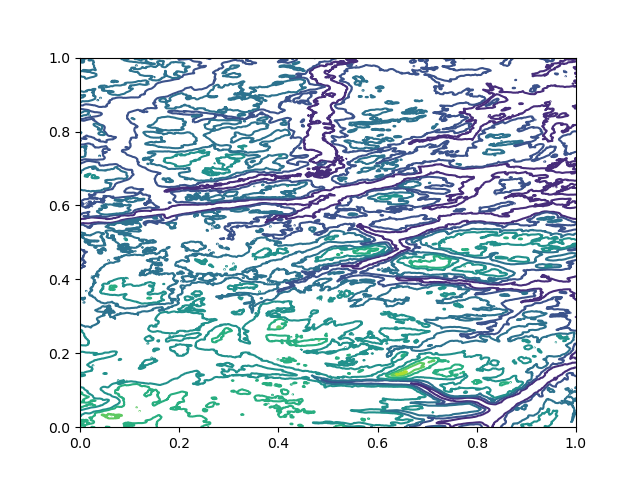
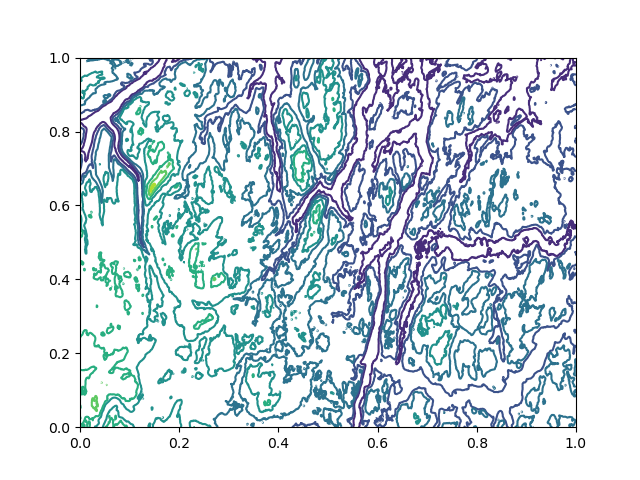
Final push
Last commit

diff --git a/Prosjekt1/Exercise4.py b/Prosjekt1/Exercise4.py
@@ -5,7 +5,7 @@ import matplotlib.pyplot as plt
 from sklearn.preprocessing import StandardScaler
 from sklearn.metrics import mean_squared_error, r2_score
 from sklearn.model_selection import train_test_split
-
+from sklearn.utils import shuffle
 
 
 x,y,z = datapoints()
@@ -52,7 +52,68 @@ def ridgeRegression(x,y,z,order,lamb):
             
     return data, error, bias, variance
 
+def RidgeRegressionkFold(x,y,z, order, kfold, lam):   
+    mse_train = np.empty((order, kfold))
+    mse_test = np.empty((order, kfold))
+    r2_train = np.empty((order, kfold))
+    r2_test = np.empty((order, kfold))         
+    
 
+    X = create_X(x,y,order)
+    z_data = np.ravel(z)
+    X_train, z_train = shuffle(X, z_data)
+        
+        
+    x_data = np.array_split(X_train, kfold)
+    z_data = np.array_split(z_train, kfold)
+        
+    
+    for i in range(0,len(x_data)):    
+        X_test = x_data[i]
+        X_train = x_data.copy()
+        X_train.pop(i)
+        X_train = np.concatenate(X_train, axis=0)
+            
+        z_test = z_data[i]
+        z_train = z_data.copy()
+        z_train.pop(i)
+        z_train = np.concatenate(z_train, axis=0)
+            
+        scaler = StandardScaler()
+        scaler.fit(X_train)
+            
+        X_train_scale = scaler.transform(X_train)
+        X_test_scale = scaler.transform(X_test)
+        
+        X_train_scale[:,0] = 1
+        X_test_scale[:,0] = 1
+        
+        z_mean_train = np.mean(z_train)
+        z_train = (z_train - z_mean_train)/np.std(z_train)
+            
+        z_mean_test = np.mean(z_test)
+        z_train = (z_train - z_mean_test)/np.std(z_test)
+            
+        coefs = ridge(X_train_scale, z_train, lam)
+            
+        z_fit = X_train_scale.dot(coefs)
+        z_pred = X_test_scale.dot(coefs)
+            
+            
+        MSE_train = mean_squared_error(z_fit, z_train)
+        MSE_test = mean_squared_error(z_pred, z_test)
+        
+        R2_train = r2_score(z_fit, z_train)
+        R2_test = r2_score(z_pred, z_test)
+
+        mse_train[i] = MSE_train
+        mse_test[i] = MSE_test
+        r2_train[i] = R2_train
+        r2_test[i] = R2_test    
+            
+    return mse_train, mse_test, r2_train, r2_test
+
+"""
 mse_train = []
 mse_test = []
 r2_train = []
@@ -61,7 +122,7 @@ error = []
 bias = []
 variance = []
 
-nlambdas = 12
+nlambdas = 25
 lambdas = np.logspace(-12, 0.5, nlambdas)
 order = 7
 polynomials = np.linspace(1,order,order)
@@ -87,14 +148,15 @@ plt.semilogy(lambdas,variance, "o", label="variance", color = "b")
 plt.semilogy(lambdas,variance, color = "b")
 plt.legend()
 plt.show()
+"""
 
+n_bootstraps = 625
 
-n_bootstraps = 275
 
 nlambdas = 15
 lam_high = 0.5
 lam_low = -12
-order = 14
+order = 5
 
 #p = [7, 8, 9, 14]
 
@@ -110,4 +172,44 @@ plt.semilogy(xaxis, bi, "o", color="g")
 plt.semilogy(xaxis, var, "o", color="b")
 plt.legend()
 plt.show()
+"""
 
+
+kfolds = 5
+
+nlambdas = 25
+lambdas = np.logspace(-12, 0.5, nlambdas)
+order = 7
+polynomials = np.linspace(1,order,order)
+
+for _ in range(nlambdas):
+    msetrain, msetest, r2train, r2test = RidgeRegressionkFold(x,y,z,order, kfolds, lambdas[_])
+    msetrain = [np.mean(msetrain[_]) for _ in range(order)]
+    msetest = [np.mean(msetest[_]) for _ in range(order)]
+    r2train = [np.mean(r2train[_]) for _ in range(order)]
+    r2test = [np.mean(r2test[_]) for _ in range(order)]
+
+polynoms = np.linspace(1,order,order)
+
+plt.figure()         
+plt.title("MSE kFold Ridge") 
+plt.plot(polynoms,msetrain, label = "MSE train", color = "r")                
+plt.plot(polynoms,msetest, label = "MSE test", color = "b")
+plt.plot(polynoms,msetrain, "o", color = "r")                
+plt.plot(polynoms,msetest, "o", color = "b")  
+plt.xlabel("order")
+plt.ylabel("mse")
+plt.legend()
+plt.show()  
+    
+plt.figure()         
+plt.title("R2 kFold Ridge") 
+plt.plot(polynoms,r2train, label = "R2 train", color = "r")                
+plt.plot(polynoms,r2test, label = "R2 test", color = "b")
+plt.plot(polynoms,r2train, "o", color = "r")                
+plt.plot(polynoms,r2test, "o", color = "b")  
+plt.xlabel("order")
+plt.ylabel("R2")
+plt.legend()
+plt.show() 
+"""

diff --git a/Prosjekt1/Exercise6.py b/Prosjekt1/Exercise6.py
@@ -26,7 +26,7 @@ def dataTerrain(img):
 
 
 def plotOLS(x,y,z):
-    order = 10
+    order = 13
     polynomials = np.linspace(1,order,order)
     
     mse_train = []
@@ -59,7 +59,7 @@ def plotOLS(x,y,z):
 
 def plotOLSBootrstrap(x,y,z):
     n_bootstraps = 250
-    maxdegree = 16
+    maxdegree = 10
         
     err,bi,var,polydeg = bootstrapOLS(x,y,z, maxdegree, n_bootstraps)
     
@@ -122,12 +122,12 @@ def plotRidge(x,y,z):
 
 
 def plotRidgeBootstrap(x,y,z):
-    n_bootstraps = 1000
+    n_bootstraps = 500
     
     nlambdas = 13
     lam_high = 0.5
     lam_low = -12
-    order = 8
+    order = 5
 
     err,bi,var, xaxis = bootstrapRidge(x,y,z, order, n_bootstraps, lam_low, lam_high, nlambdas)
     
@@ -221,12 +221,12 @@ def plotLassoBootstrap(x,y,z):
 x,y,z = dataTerrain(terrain1)  
 
 
-#plotOLS(x, y, z)
+plotOLS(x, y, z)
 #plotOLSBootrstrap(x, y, z)
 
-plotRidge(x, y, z)
-plotRidgeBootstrap(x, y, z)
-plotLasso(x, y, z)
+#plotRidge(x, y, z)
+#plotRidgeBootstrap(x, y, z)
+#plotLasso(x, y, z)
 #plotLassoBootstrap(x, y, z)
 
 """______________________________terrain2______________________________"""

diff --git a/Prosjekt1/Exercise3.py b/Prosjekt1/Exercise3.py
@@ -11,11 +11,7 @@ from sklearn.metrics import mean_squared_error, r2_score
 x,y,z = datapoints()
 
 def OLSkFold(x,y,z, maxdegree, kfold):
-    #mse_train = np.empty((kfold, maxdegree))
-    #mse_test = np.empty((kfold, maxdegree))
-    #r2_train = np.empty((kfold, maxdegree))
-    #r2_test = np.empty((kfold, maxdegree)) 
-    
+
     mse_train = np.empty((maxdegree, kfold))
     mse_test = np.empty((maxdegree, kfold))
     r2_train = np.empty((maxdegree, kfold))
@@ -28,8 +24,8 @@ def OLSkFold(x,y,z, maxdegree, kfold):
         X_train, z_train = shuffle(X, z_data)
         
         
-        x_data = np.array_split(X_train, kfolds)
-        z_data = np.array_split(z_train, kfolds)
+        x_data = np.array_split(X_train, kfold)
+        z_data = np.array_split(z_train, kfold)
         
     
         for i in range(0,len(x_data)):    
@@ -78,7 +74,7 @@ def OLSkFold(x,y,z, maxdegree, kfold):
     return mse_train, mse_test, r2_train, r2_test
 
 maxdegree = 12
-kfolds = 5
+kfolds = 4
 
 
 msetrain, msetest, r2train, r2test = OLSkFold(x,y,z,maxdegree, kfolds)

diff --git a/Prosjekt1/Exercise2.py b/Prosjekt1/Exercise2.py
@@ -1,6 +1,7 @@
-from Functions import datapoints, OLS, bootstrapOLS
+from Functions import datapoints, OLS, bootstrapOLS, boot
 import matplotlib.pyplot as plt
-
+import numpy as np
+from scipy.stats import norm
 
 
 x,y,z = datapoints()
@@ -11,8 +12,8 @@ p = 15
 data = OLS(x,y,z,p)
 X_train_scaled = data[-4]
 
-"""
-n_samples = 1000
+
+n_samples = 500
 t = boot(X_train_scaled, n_samples)
 n, binsboot, patches = plt.hist(t, 50, density=True, facecolor='red', alpha=0.75)
 
@@ -22,10 +23,10 @@ plt.xlabel('x')
 plt.ylabel('Probability')
 plt.grid(True)
 plt.show()
-"""
 
-n_bootstraps = 650
-maxdegree = 15
+
+n_bootstraps = 625
+maxdegree = 12
     
 err,bi,var,polydeg = bootstrapOLS(x,y,z, maxdegree, n_bootstraps)
 

diff --git a/Prosjekt1/thingy thing.py b/Prosjekt1/thingy thing.py
@@ -17,4 +17,4 @@ def dataTerrain(img):
 
 x,y,z = dataTerrain(terrain1)
 
-plt.contour(x,y,z)
+plt.contour(y,x,z)
